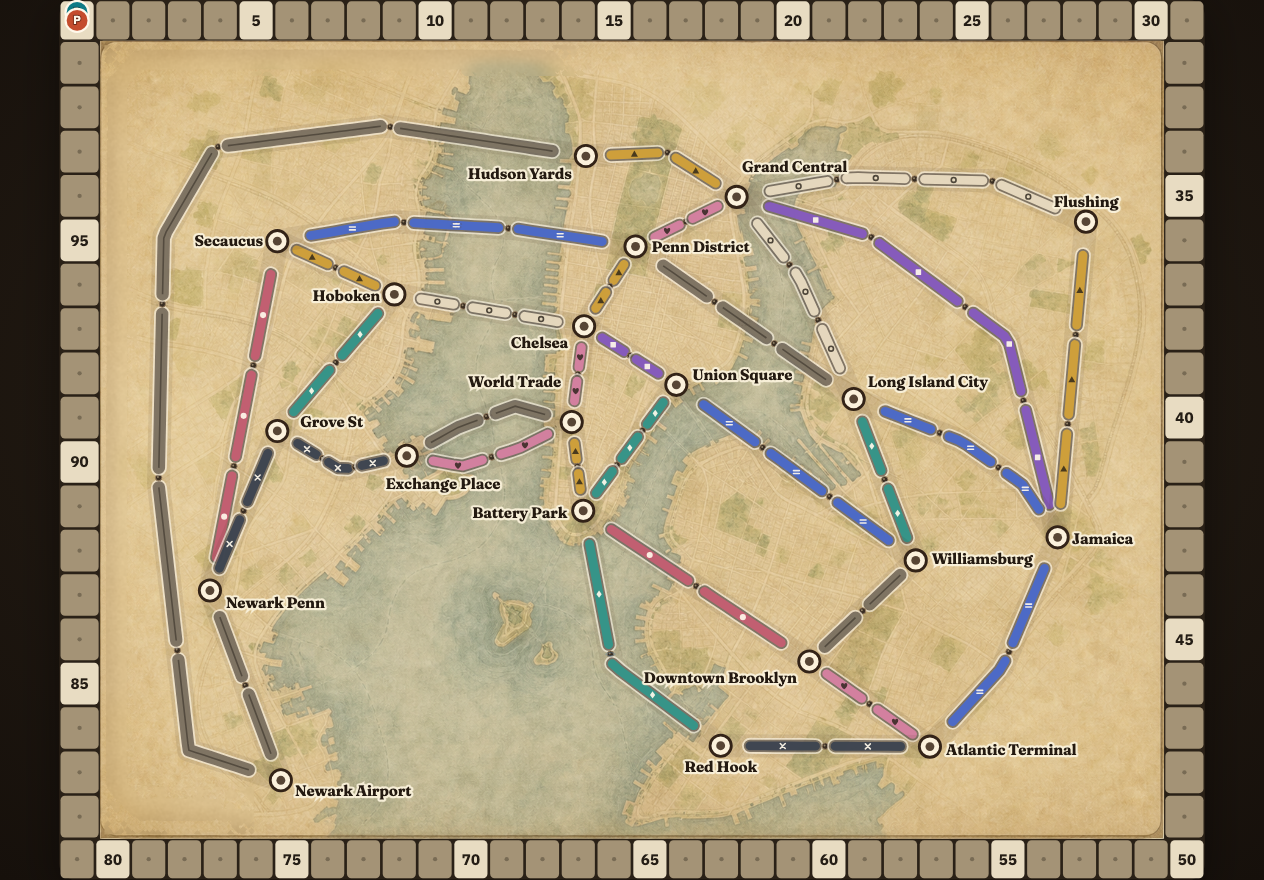
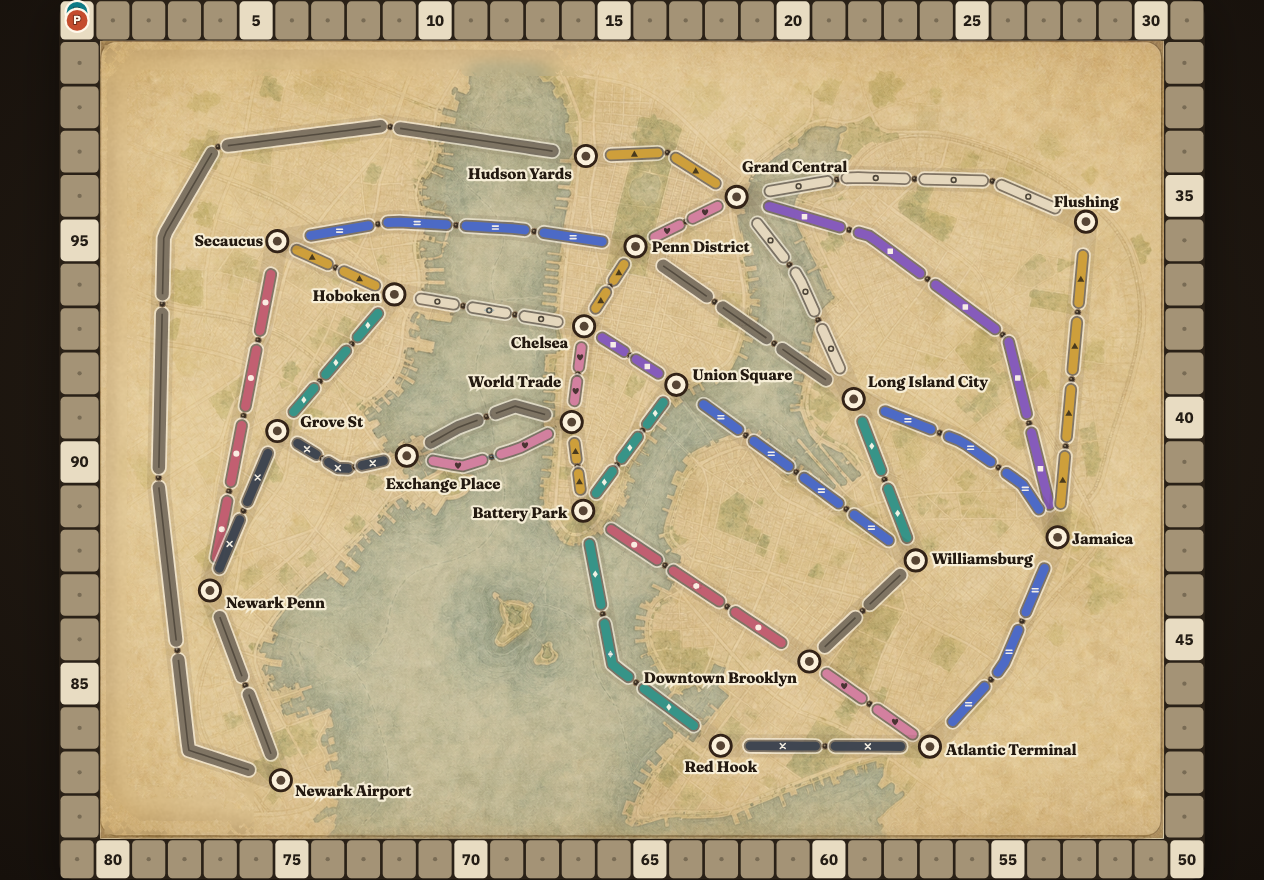
feat(maps): New York Harbor gets longer routes, three ferries and harder tickets
v0.5 is named New York Harbor and v0.4 is archived, so the map picker no
longer lists two maps with the same name. v0.4 still loads for rooms that use it.

Nine routes are one space longer, mostly the cross-river ones, taking the
board from 82 spaces to 91 and from two routes of four or more to seven.
Hoboken to Chelsea and the rose Exchange Place to World Trade twin are
ferries that need a locomotive. Four tickets that a single two-space route
completed for five points now ask for a real connection, and Williamsburg
gets its first tickets.

In a 300-game simulation per table size every game finished; at four players
routes are no longer almost all taken.

diff --git a/configs/hudson-hustle/releases/v0.5-river-crossings/notes.md b/configs/hudson-hustle/releases/v0.5-river-crossings/notes.md
@@ -14,3 +14,9 @@
 ## Space Sizes
 - Stations were nudged so the spaces on different routes are closer in size; lengths are unchanged. Downtown Brooklyn and Red Hook sit nearer the harbor mouth, Grove St nearer Hoboken, Newark Penn and Jamaica a little closer in.
 - A space was between 46 and 214 map units long; it is now between about 50 and 161, leaving aside the six-space Newark Airport to Hudson Yards route, which is about 205 because it has to go round New Jersey.
+
+## Rules Data Changes From v0.4
+These change play, not only the drawing. v0.4 keeps the old values.
+- Nine routes are one space longer, mostly the ones whose spaces were drawn longest: Battery Park to Downtown Brooklyn (3), Battery Park to Red Hook (3), Atlantic Terminal to Jamaica (3), Secaucus to Newark Penn (4), Secaucus to Penn District (4), Grand Central to Jamaica (5), Flushing to Jamaica (4), Union Square to Williamsburg (4), Hoboken to Grove St (3). The board goes from 82 spaces to 91, and from two routes of length four or more to seven.
+- Two more ferries, each needing one locomotive: Hoboken to Chelsea, and the rose Exchange Place to World Trade twin. The gray twin stays a tunnel, so the pair is a choice between a tunnel and a ferry.
+- Four tickets were finished by claiming a single two-space route for five points. They now ask for more: Atlantic Terminal to Union Square (9), Battery Park to Williamsburg (6), Hoboken to Red Hook (11), Chelsea to Williamsburg (7). Williamsburg had no ticket before.
